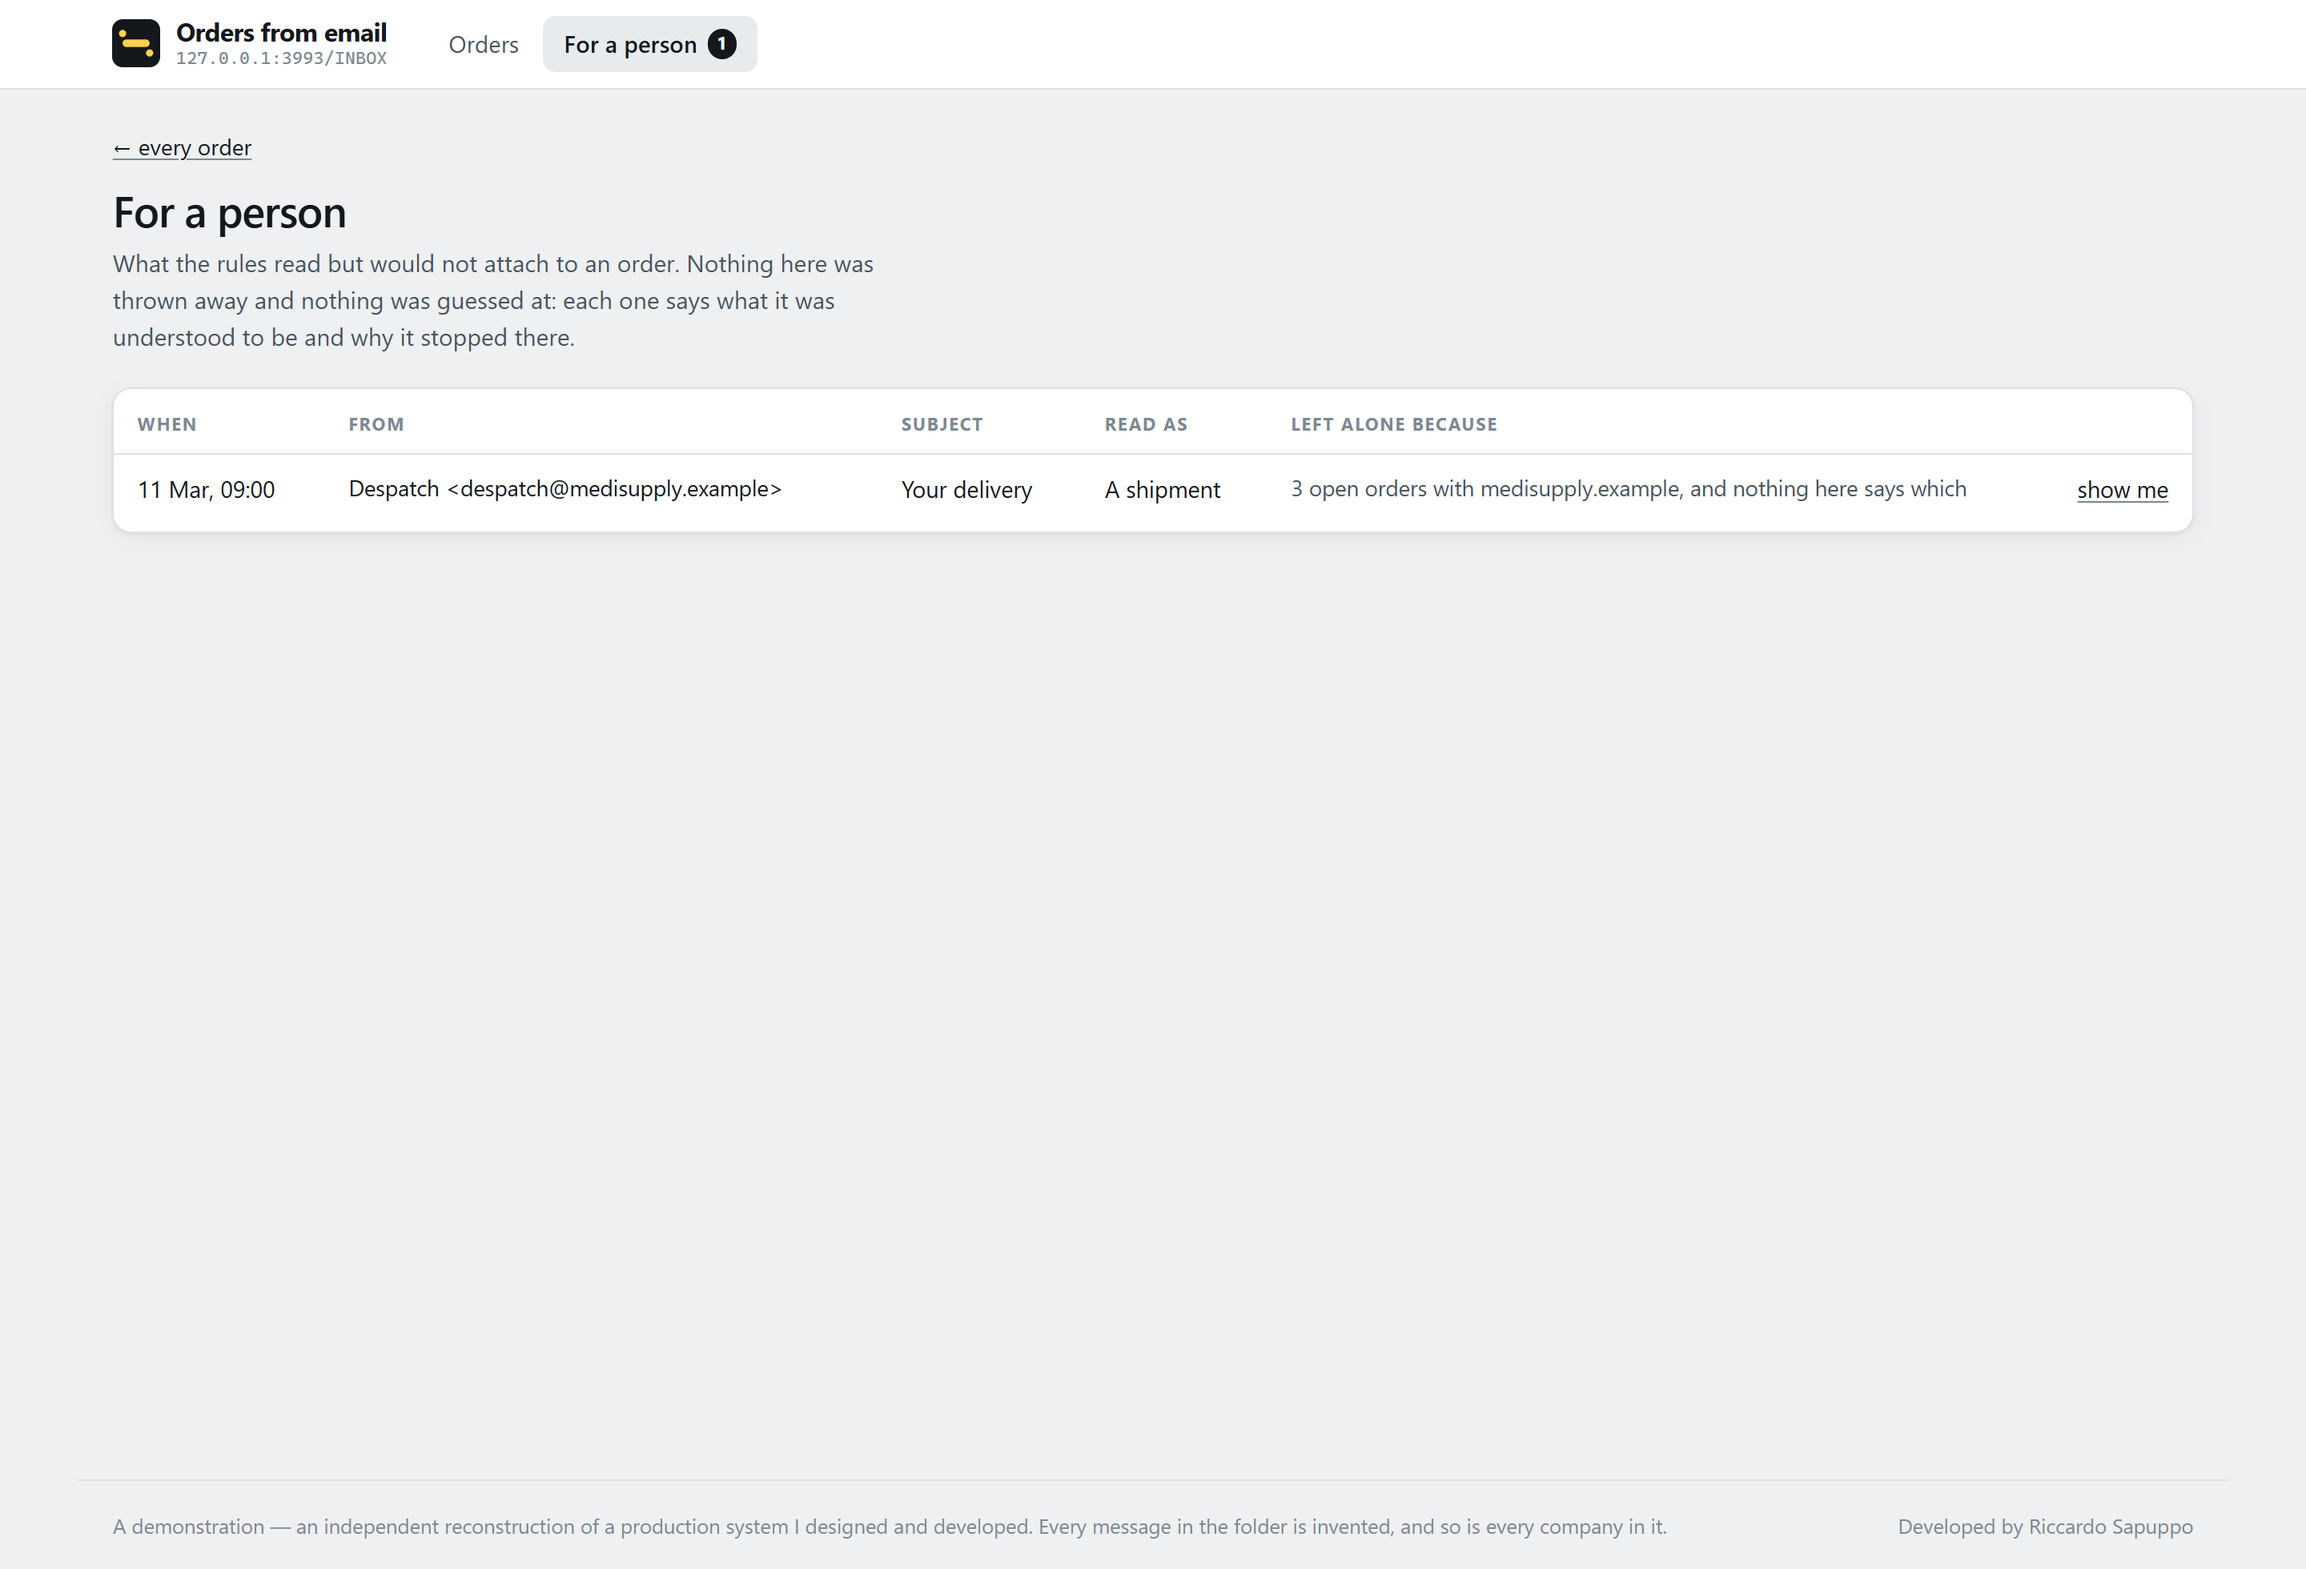
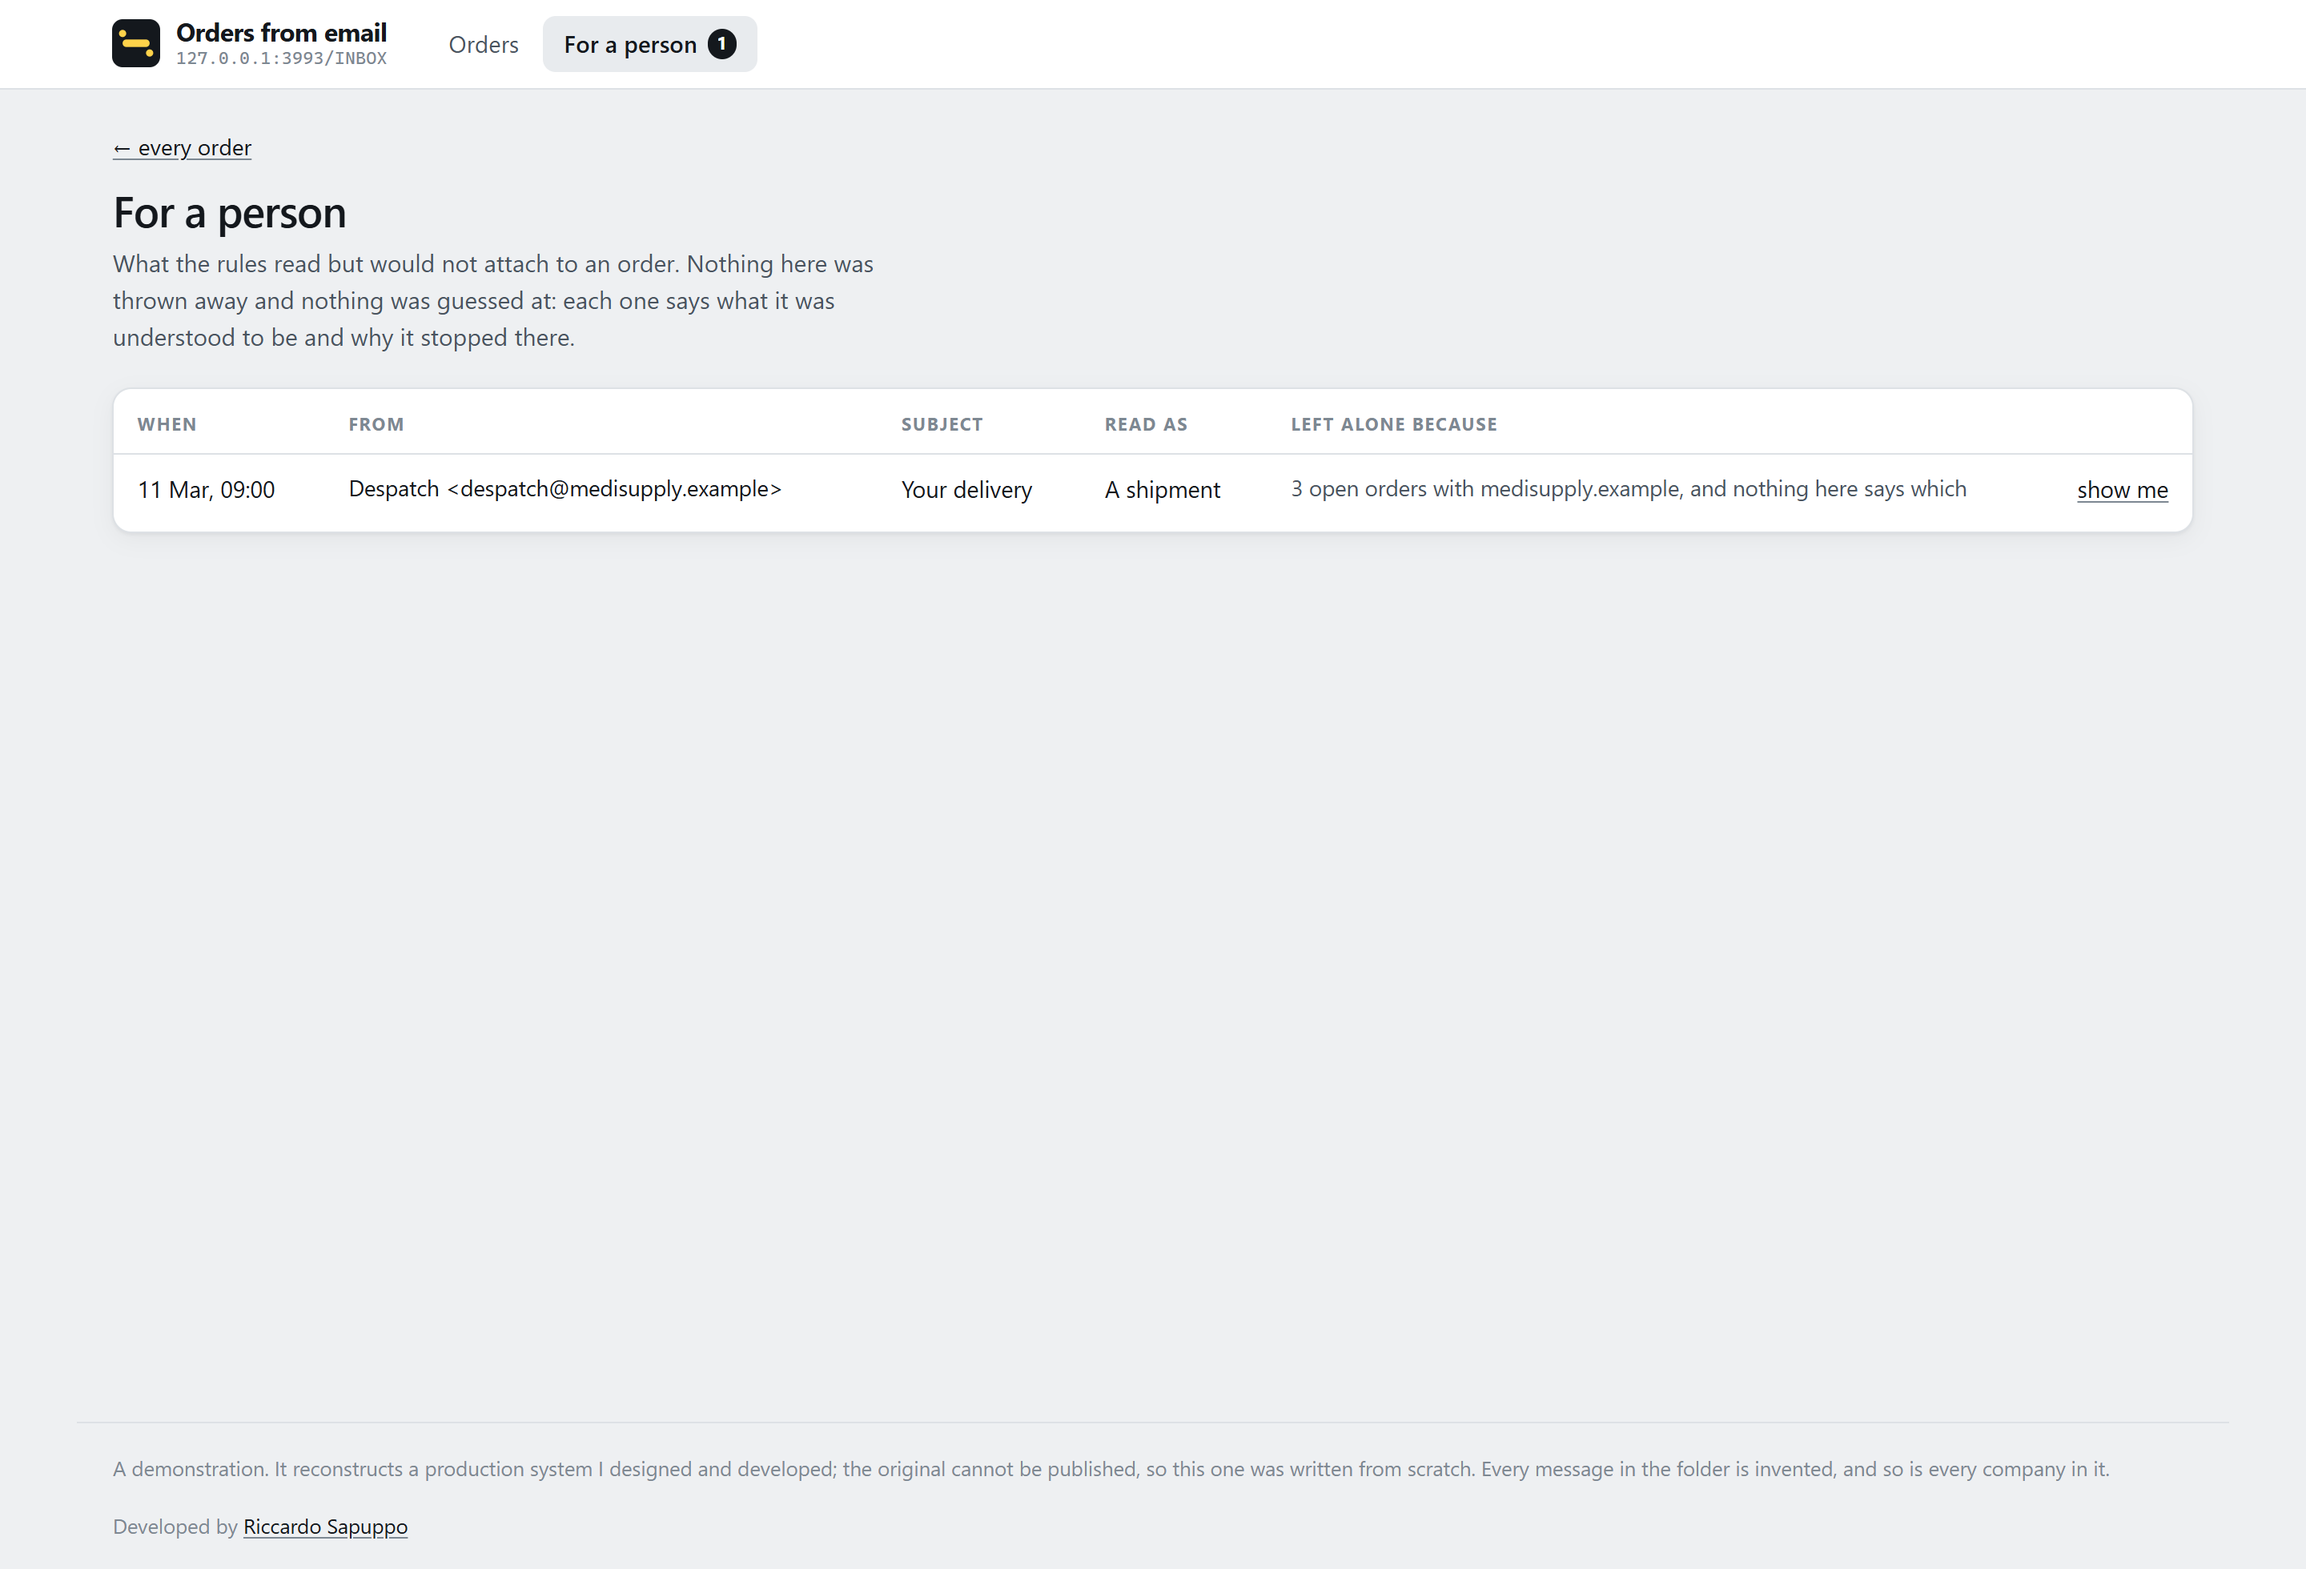
The footer said what this is, never why the original is missing
The line under every demonstration named the thing and named what was invented
in it, and stopped there. It never said why there is a reconstruction at all,
which is the half that matters: the original cannot be published. Somebody who
opens one of these from a direct link never sees the README, so that sentence
existed nowhere they would look.

The same words now open every one of the fourteen interfaces in this portfolio,
character for character, whether the footer lives in an index.html, an Angular
template, a Razor page, a PHP view or a React component.

The name in the signature is a link to the profile, opening in its own tab.
It carries rel=noopener, and that is not decoration: without it the page that
opens gets a handle on this one and can navigate it somewhere else. It does not
carry nofollow, because unlike the link out to a client's live site, this one is
meant to be followed.

The dash was a tic here too. Twenty-three of them on one page, eighty-five
across the eight HTML ones, and this is where somebody actually looks rather
than on GitHub. Most are gone by rewriting the sentence; the ones that stayed
are all the same case, a parenthesis that already holds commas of its own,
where a comma cannot do the work. The proof it was rewritten and not
substituted is the length: the visible text got shorter.

diff --git a/packages/web/src/app/app.component.ts b/packages/web/src/app/app.component.ts
@@ -46,11 +46,20 @@ import { LogoComponent } from './shell/logo.component';
 
     <footer>
       <span>
-        A demonstration — an independent reconstruction of a production system I
-        designed and developed. Every message in the folder is invented, and so is
-        every company in it.
+        A demonstration. It reconstructs a production system I designed and
+        developed; the original cannot be published, so this one was written
+        from scratch. Every message in the folder is invented, and so is every
+        company in it.
       </span>
-      <span>Developed by Riccardo Sapuppo</span>
+      <span>
+        Developed by
+        <a
+          href="https://github.com/riccardosapuppo"
+          target="_blank"
+          rel="noopener noreferrer"
+          >Riccardo Sapuppo</a
+        >
+      </span>
     </footer>
   `,
   styleUrl: './app.component.css',
